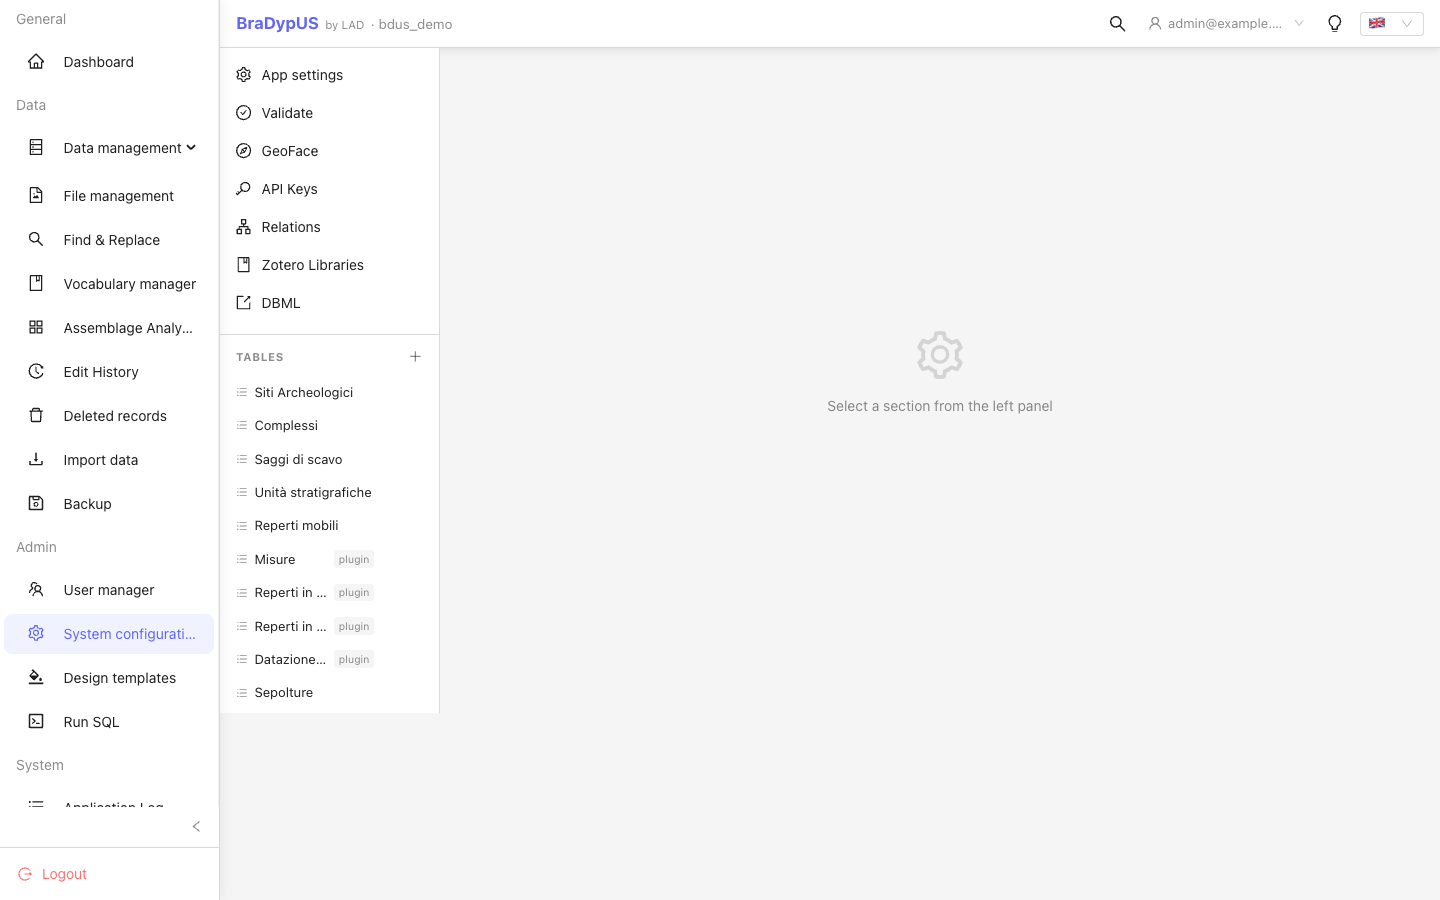
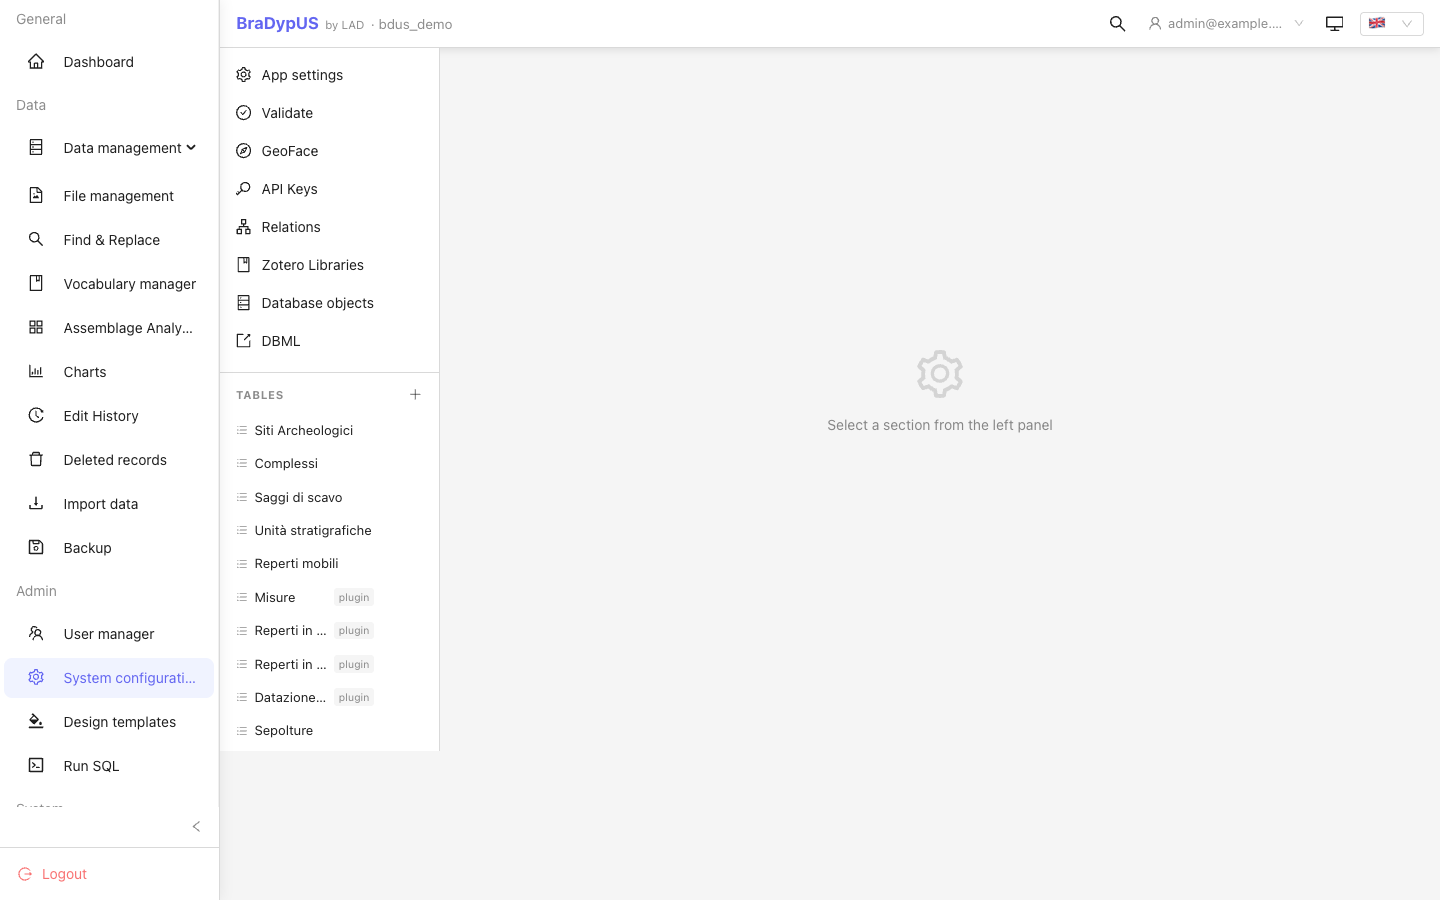
docs: refresh the Config overview screenshot (Database objects button)
The overview of the Config panel now shows the new "Database objects" section;
the page no longer says "six" sections.

Part of #53

diff --git a/bdus-docs/guide/setup/index.md b/bdus-docs/guide/setup/index.md
@@ -8,11 +8,11 @@ Application setup is handled entirely through the **Config** panel, a dedicated
 administration area accessible from the sidebar. Only users with **super-admin**
 privilege can open it.
 
-![Config panel open with sidebar showing six panel buttons](/images/v5/setup/config-overview.png)
+![Config panel open with sidebar showing the panel buttons](/images/v5/setup/config-overview.png)
 
 ## The Config panel
 
-The Config panel is divided into six sections, selectable from the left sidebar:
+The Config panel is divided into sections, selectable from the left sidebar:
 
 | Panel | Purpose |
 |---|---|
